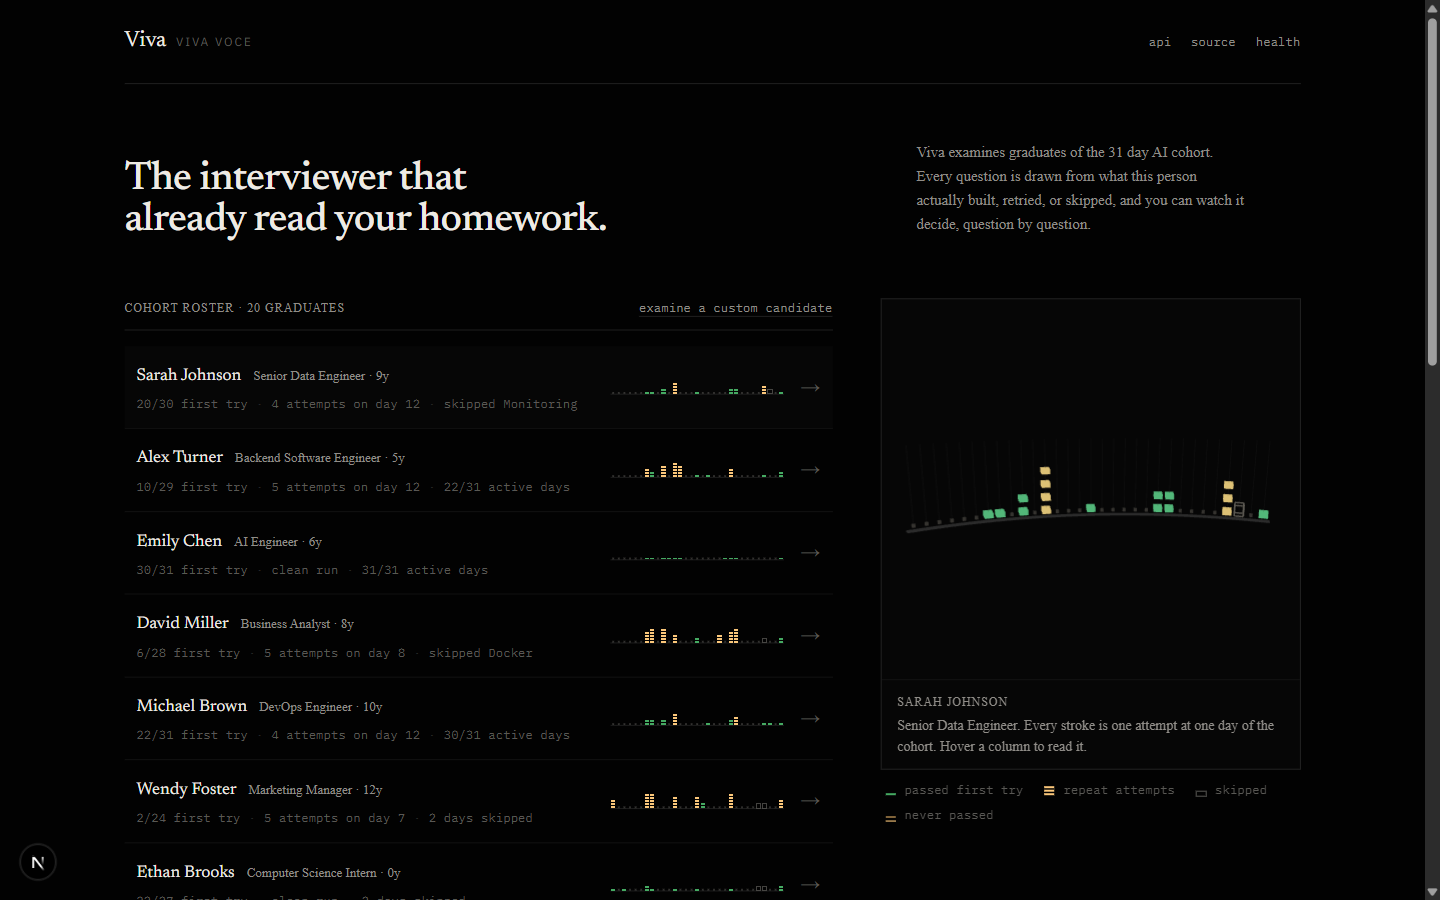
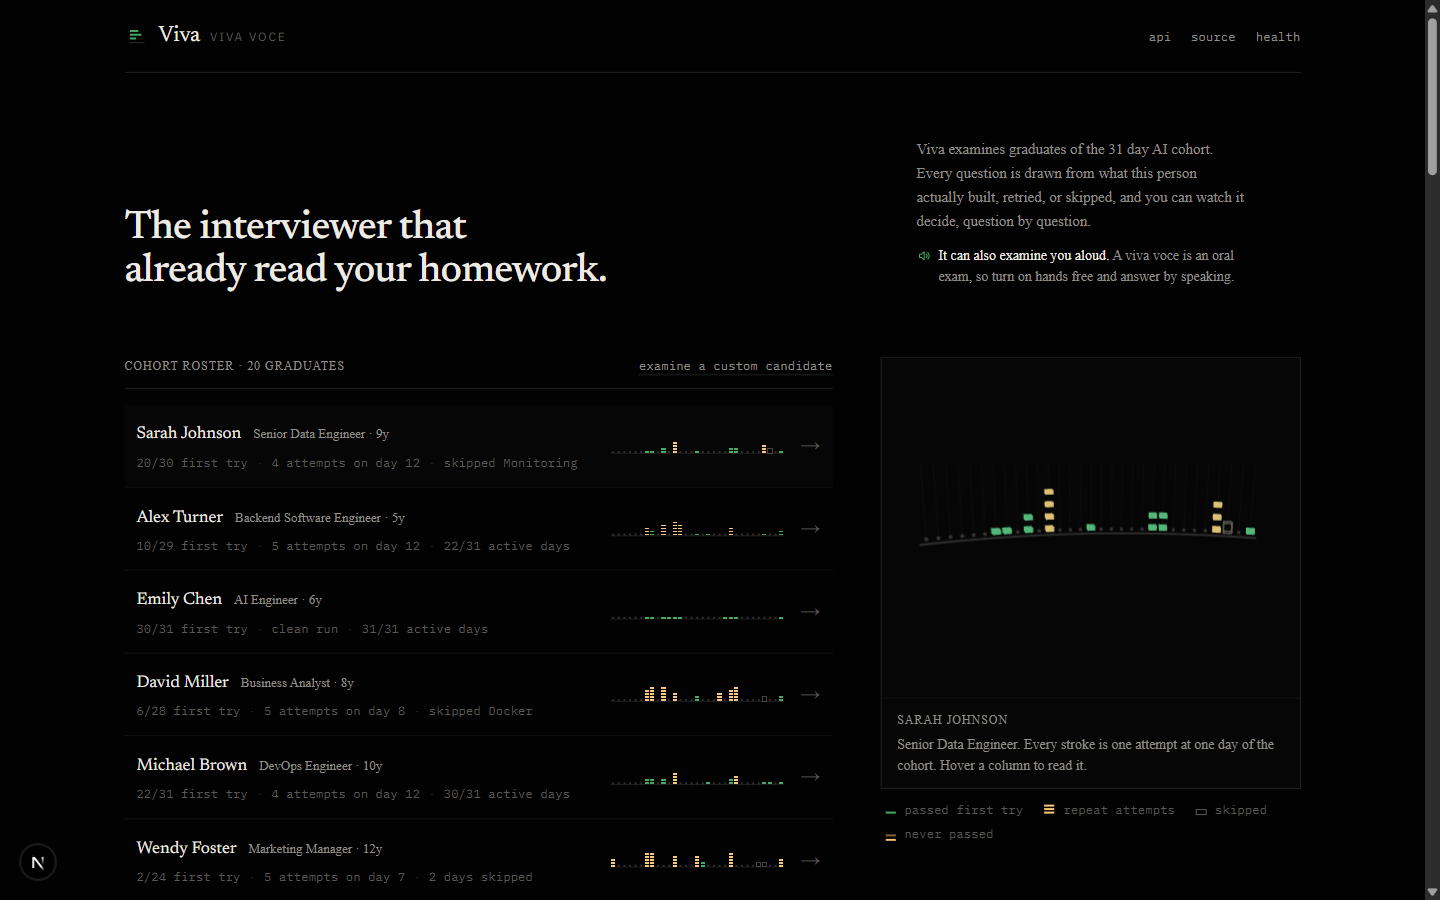
prog7

diff --git a/PROMPTS.md b/PROMPTS.md
@@ -116,3 +116,13 @@ Each entry:
 > I have around 1 lakh credit left on my Eleven Labs account, I want to use it here also, so implement Eleven Lab properly so that my project gets more unique.
 **Outcome:** Rebuilt around streaming. `POST /api/voice` registers a line and returns a short id, `GET /api/voice/[id]` pipes the ElevenLabs stream straight into an `<audio>` element so playback starts while generation is still running, instead of waiting for a whole synthesis round trip. Utterance ids live in Redis with a 15 minute TTL because on serverless the register and the stream can land on different instances. Voice is now on whenever a key is present, the picker is populated from the account's own `/v1/voices` at runtime, and hands-free mode chains the loop: speak, then open the microphone only after playback resolves, then auto-submit after three seconds of silence. 51 tests total, production build clean, and the unconfigured path still reports disabled and returns 204 everywhere.
 **Steering notes:** The earlier version was built defensively around a 10,000 character free tier, capping utterances at 700 characters and defaulting to off. With real credits available those constraints were wrong, so the cap became a 1,800 character runaway guard rather than a budget and the default flipped to on. Three ordering bugs were designed out rather than discovered later: the microphone must not open until playback actually resolves or the recogniser transcribes the examiner's own question into the answer; `speak()` therefore returns a promise that settles on end, error, or interrupt; and typing must cancel the silence countdown so auto-submit can never fire underneath someone still composing. The requested voice id is pattern checked before being forwarded upstream, so a crafted request cannot use this route to reach arbitrary ElevenLabs endpoints.
+
+### 9. Identity, landing page, and making the wait look like work
+**When:** Sat 8 Aug, ~1:35 PM to 2:40 PM IST
+**Tool:** Claude Code (Fable 5), Playwright for verification
+**Goal:** Dress rehearsals against production, then a logo and favicon, real loading states, and turn the single roster page into an actual landing page.
+**Prompt (representative):**
+> Add some loading, like a skeleton loading. The favicon: build this thing's logo nicely, and the favicon will be the same. Build this thing's landing page.
+> [later] When I am clicking on one interview it is stuck for 3 to 4 seconds... when the judges see it they will think it is not working and will go back.
+**Outcome:** `scripts/rehearse.ts` runs a full interview against any deployment and prints it the way a judge reads it; all three rehearsals passed on production (CAND-001, CAND-004, and a pasted Product Manager). The logo is the product's own notation, an examiner's tally on a ruled line, shared by `app/icon.svg` and all three page headers. `components/planning-state.tsx` covers the wait before the first question, appearing at 0ms on click and naming each stage as it happens, with the tally mark drawing itself instead of a generic spinner. The landing page gained five sections built from real interview output rather than marketing copy, and README screenshots were retaken to match.
+**Steering notes:** The first CAND-001 rehearsal scored nearly every answer as evasive, which looked like a model failure and was actually my harness: it fired a fixed answer list in order, so a question about persistent volume claims got answered with a line about Docker packaging. The model was right and the test was wrong, so answers are now selected by matching the question. The second run then proved the adaptive path properly: strong at L1 escalated to L2, an admitted gap dropped back to L1, and the verify-strength probe fired at L3 on the day she passed first try. Separately I had built skeletons for the wrong moment, route transitions, when the real delay is the planner's model call before question one; the fix had to start on the click itself, before navigation resolves, or the judge sees a dead page.

diff --git a/README.md b/README.md
@@ -4,6 +4,15 @@
 
 An AI technical interviewer for the ABTalks 31 day AI cohort. It plans each interview from the candidate's real learning history, adapts every question to the previous answer, shows its reasoning live while it works, and proves every piece of feedback with the candidate's own words.
 
+| | |
+|---|---|
+| **Live demo** | https://viva-bay.vercel.app |
+| **Contract playground** | https://viva-bay.vercel.app/api-docs |
+| **AI usage log** | [PROMPTS.md](./PROMPTS.md) |
+| **Health** | https://viva-bay.vercel.app/api/health |
+
+Built solo for the ABTalks Vibe Code Hackathon, Problem Statement 2.
+
 ---
 
 ## The thirty second proof
